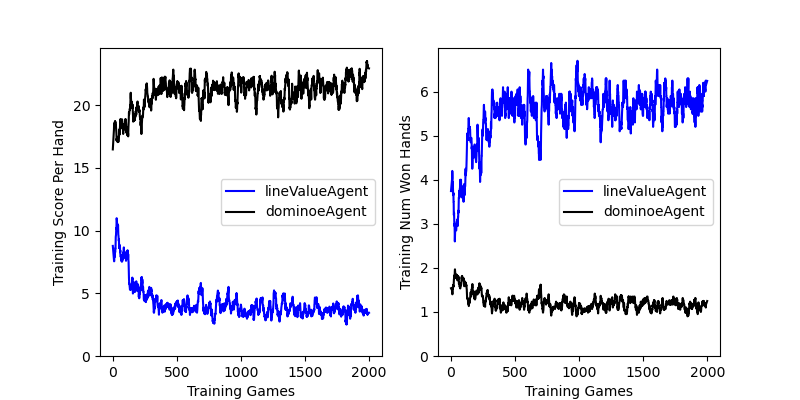
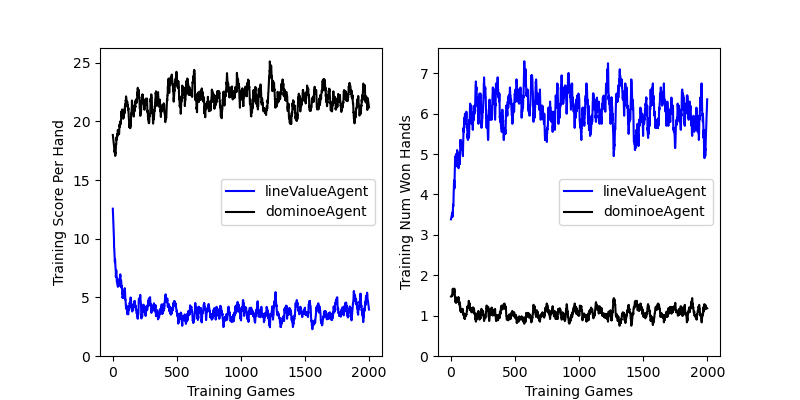
BUG: basicValueAgent uses replay now

diff --git a/experiments/evaluateReplay.py b/experiments/evaluateReplay.py
@@ -1,0 +1,209 @@
+# mainExperiment at checkpoint 1
+import sys
+import os
+
+# add path that contains the dominoes package
+mainPath = os.path.dirname(os.path.abspath(__file__)) + "/.."
+sys.path.append(mainPath)
+
+# standard imports
+from copy import copy
+import argparse
+from pathlib import Path
+from tqdm import tqdm
+import numpy as np
+import matplotlib as mpl
+import matplotlib.pyplot as plt
+import torch.cuda as torchCuda
+
+# dominoes package
+from dominoes import leagueManager as lm
+from dominoes import gameplay as dg
+from dominoes import agents as da
+from dominoes import functions as df
+
+device = 'cuda' if torchCuda.is_available() else 'cpu'
+
+# can edit this for each machine it's being used on
+resPath = Path(mainPath) / 'experiments' / 'savedResults'
+prmsPath = Path(mainPath) / 'experiments' / 'savedParameters'
+figsPath = Path(mainPath) / 'docs' / 'media'
+
+# paths for loading previously trained agents
+networkPath = Path(mainPath) / 'experiments' / 'savedNetworks' 
+
+valueAgents = {
+    'basicValueAgent':da.basicValueAgent,
+    'lineValueAgent':da.lineValueAgent,
+    'lineValueAgentSmall':da.lineValueAgentSmall
+}
+
+opponents = {
+    'dominoeAgent':da.dominoeAgent,
+    'greedyAgent':da.greedyAgent,
+    'stupidAgent':da.stupidAgent,
+    'doubleAgent':da.doubleAgent,
+    'persistentLineAgent':da.persistentLineAgent
+}
+
+# method for returning the name of the saved network parameters (different save for each possible opponent)
+def getFileName():
+    return "evaluateReplay"
+
+def getNetworkPath(replay=True):
+    replayString = '' if replay else 'withReplay_'
+    name = f"trainValueAgent_{args.value_agent}_"+replayString+f"against_{args.opponent}"
+    path = networkPath / (name+'.npy')
+    return path
+
+def handleArguments():
+    parser = argparse.ArgumentParser(description='Run dominoes experiment.')
+    parser.add_argument('-n','--num-players', type=int, default=4, help='the number of agents in the game of dominoes')
+    parser.add_argument('-hd','--highest-dominoe', type=int, default=9, help='the highest dominoe in the board')
+    parser.add_argument('-s','--shuffle-agents', type=bool, default=True, help='whether to shuffle the order of the agents each hand')
+    parser.add_argument('-tg','--num-games',type=int, default=2000, help='the number of training games')
+    parser.add_argument('-tr','--num-rounds',type=int, default=None, help='the number of training rounds')
+    parser.add_argument('-op','--opponent',type=str, default='dominoeAgent', help='which opponent to play the basic value agent against for training and testing')
+    parser.add_argument('-va','--value-agent',type=str, default='basicValueAgent', help='which value agent to use')
+    parser.add_argument('-fe','--fraction-estimate',type=float, default=0.25, help='final fraction of elo estimates to use')
+    parser.add_argument('--justplot',default=False,action='store_true', help='if used, will only plot the saved results (results have to already have been run and saved)')
+    parser.add_argument('--nosave',default=False,action='store_true')
+    
+    args = parser.parse_args()
+    
+    assert args.value_agent in valueAgents.keys(), f"requested value agent ({args.value_agent}) is not in the list of possibilities!"
+    assert args.opponent in opponents.keys(), f"requested opponent ({args.opponent}) is not in the list of possible opponents!"
+     
+    return args
+
+
+def estimateELO(numGames, numRounds):
+    # create a league manager with the requested parameters
+    league = lm.leagueManager(args.highest_dominoe, args.num_players, shuffleAgents=True, device=device)
+    
+    names = []
+    # add valueAgent with replay
+    league.addAgentType(valueAgents[args.value_agent])
+    league.getAgent(0).loadAgentParameters(getNetworkPath(replay=True))
+    league.getAgent(0).setLearning(False)
+    names.append(f"{args.value_agent}_withReplay")
+    
+    # add valueAgent without replay
+    league.addAgentType(valueAgents[args.value_agent])
+    league.getAgent(1).loadAgentParameters(getNetworkPath(replay=False))
+    league.getAgent(1).setLearning(False)
+    names.append(f"{args.value_agent}_noReplay")
+    
+    # add opponents necessary for full table
+    league.addAgentType(opponents[args.opponent], args.num_players-2)
+    names += [args.opponent]*(args.num_players-2)
+    
+    # Run lots of games, update and track ELO scores 
+    trackElo = np.zeros((numGames, league.numAgents))
+    trackScore = np.full((numGames, league.numAgents), np.nan)
+    trackHandWins = np.full((numGames, league.numAgents), np.nan)
+    numRounds = numRounds if numRounds is not None else league.highestDominoe+1
+    for gameIdx in tqdm(range(numGames)):
+        game, leagueIndex = league.createGame()
+        game.playGame(rounds=numRounds)
+        league.updateElo(leagueIndex, game.currentScore) # update ELO
+        trackElo[gameIdx] = copy(league.elo)
+        trackScore[gameIdx, leagueIndex] = game.currentScore/numRounds # track agent score (average per hand)
+        trackHandWins[gameIdx, leagueIndex] = np.sum(game.score==0,axis=0)/numRounds # track how many times each agent won a hand
+
+    # Estimate final ELO
+    num2EstimateWith = int(numGames * args.fraction_estimate)
+    eloEstimate = np.mean(trackElo[-num2EstimateWith:],axis=0)
+    averageScore = np.nanmean(trackScore,axis=0)
+    averageHandWins = np.nanmean(trackHandWins,axis=0)
+
+    # Create results array
+    results = {
+        'elo':eloEstimate,
+        'averageScore':averageScore,
+        'averageHandWins':averageHandWins,
+        'trackedElo':trackElo,
+        'names':names
+    }
+ 
+    return results
+
+
+# And a function for plotting results
+def plotResults(results, args):
+    elo = results['elo']
+    averageScore = results['averageScore']
+    averageHandWins = results['averageHandWins']
+    trackedElo = results['trackedElo']
+    
+    names = results['names']
+    numAgents = len(names)
+    
+    # Show plot of tracked ELO trajectories to make sure it reached asymptotic ELO ratings
+    f1 = plt.figure(1)
+    for name, telo in zip(names, trackedElo.T):
+        plt.plot(range(args.num_games), telo, label=name)
+    plt.ylim(0)
+    plt.legend(loc='best')
+    plt.show()
+
+    # Create discrete colormap
+    colors = ['b','k',*(['0.3']*(numAgents-2))]
+    f2,ax = plt.subplots(1,3,figsize=(14,4))
+
+    ax[0].bar(x=range(numAgents), height=elo, color=colors, tick_label=names)
+    ax[0].tick_params(labelrotation=25)
+    ax[0].set_ylim(0)
+    ax[0].set_ylabel('ELO')
+    
+    ax[1].bar(x=range(numAgents), height=averageScore, color=colors, tick_label=names)
+    ax[1].tick_params(labelrotation=25)
+    ax[1].set_ylim(0)
+    ax[1].set_ylabel('avg score/hand')
+    
+    ax[2].bar(x=range(numAgents), height=averageHandWins, color=colors, tick_label=names)
+    ax[2].tick_params(labelrotation=25)
+    ax[2].set_ylim(0)
+    ax[2].set_ylabel('avg fraction of hand wins')
+    
+    if not(args.nosave):
+        plt.savefig(str(figsPath/getFileName()))
+    
+    plt.show()
+    
+
+if __name__=='__main__':
+    args = handleArguments()
+    
+    if not(args.justplot):
+        # estimate ELO with the requested parameters and agents
+        results = estimateELO(args.num_games, args.num_rounds)
+        
+        # save results if requested
+        if not(args.nosave):
+            # Save agent parameters
+            np.save(prmsPath / getFileName(), vars(args))
+            np.save(resPath / getFileName(), results)
+        
+    else:
+        prms = np.load(prmsPath / (getFileName()+'.npy'), allow_pickle=True).item()
+        assert prms.keys() <= vars(args).keys(), f"Saved parameters contain keys not found in ArgumentParser:  {set(prms.keys()).difference(vars(args).keys())}"
+        for (pk,pi), (ak,ai) in zip(prms.items(), vars(args).items()):
+            if pk=='justplot': continue
+            if pk=='nosave': continue
+            if prms[pk] != vars(args)[ak]:
+                print(f"Requested argument {ak}={ai} differs from saved, which is: {pk}={pi}. Using saved...")
+                setattr(args,pk,pi)
+        
+        results = np.load(resPath / (getFileName()+'.npy'), allow_pickle=True).item()
+        
+    plotResults(results, args)
+        
+    print(f"ELO: {results['elo']}")
+    print(f"AvgScore: {results['averageScore']}")
+    print(f"AvgHandWins: {results['averageHandWins']}")
+    
+    
+    
+    
+

diff --git a/dominoes/agents/tdAgents.py b/dominoes/agents/tdAgents.py
@@ -23,8 +23,10 @@ class valueAgent(dominoeAgent):
         self.lam = 0.5
         self.alpha = 3e-5
         self.replay = True
-        self.probSaveForReplay = 0.2
+        self.probSaveForReplay = 0.1
         self.sizeReplayBuffer = 1000
+        self.replayAlpha = copy(self.alpha)
+        self.replayRepetitions = 10
         self.finalScoreOutputDimension = 1
         
         # create binary arrays for presenting gamestate information to the RL networks
@@ -42,6 +44,14 @@ class valueAgent(dominoeAgent):
     
     def initHand(self):
         self.zeroEligibility()
+        if self.learning and self.replay and self.replayBuffer[0].size(0)>0:
+            self.replayBufferIndex = [] # reset so any replays to add from this hand get appended here
+            for _ in range(self.replayRepetitions):
+                self.optimizer.zero_grad()
+                finalScoreOutput = self.finalScoreNetwork(self.replayBuffer, withBatch=True)
+                finalScoreError = self.loss(finalScoreOutput, self.replayTarget)
+                finalScoreError.backward()
+                self.optimizer.step()
         
     def prepareNetwork(self):
         raise ValueError("It looks like you instantiated an object of the valueAgent class directly. This class is only used to provide a scaffold for complete valueAgents, see possible agents in this script!")
@@ -225,7 +235,7 @@ class basicValueAgent(valueAgent):
         self.replayBuffer = torch.zeros((0, self.finalScoreNetwork.inputDimension)).to(self.device)
         self.replayTarget = torch.zeros((0,1)).to(self.device)
         self.loss = torch.nn.L1Loss()
-        self.optimizer = torch.optim.SGD(self.finalScoreNetwork.parameters(), lr=self.alpha)
+        self.optimizer = torch.optim.SGD(self.finalScoreNetwork.parameters(), lr=self.replayAlpha)
         
     def checkTurnUpdate(self, currentPlayer, postState=False):
         relevantTurn = True # update every turn -- #(currentPlayer is not None) and (currentPlayer == self.agentIndex)
@@ -326,18 +336,19 @@ class lineValueAgent(valueAgent):
         self.replayBuffer = [torch.zeros((0, *replayDims0)).to(self.device), torch.zeros((0, *replayDims1)).to(self.device)]
         self.replayTarget = torch.zeros((0,1)).to(self.device)
         self.loss = torch.nn.L1Loss()
-        self.optimizer = torch.optim.SGD(self.finalScoreNetwork.parameters(), lr=self.alpha)
+        self.optimizer = torch.optim.SGD(self.finalScoreNetwork.parameters(), lr=self.replayAlpha)
         
     def initHand(self):
         super().initHand()
         self.needsLineUpdate = True
         if self.learning and self.replay and self.replayBuffer[0].size(0)>0:
             self.replayBufferIndex = [] # reset so any replays to add from this hand get appended here
-            self.optimizer.zero_grad()
-            finalScoreOutput = self.finalScoreNetwork(self.replayBuffer, withBatch=True)
-            finalScoreError = self.loss(finalScoreOutput, self.replayTarget)
-            finalScoreError.backward()
-            self.optimizer.step()
+            for _ in range(self.replayRepetitions):
+                self.optimizer.zero_grad()
+                finalScoreOutput = self.finalScoreNetwork(self.replayBuffer, withBatch=True)
+                finalScoreError = self.loss(finalScoreOutput, self.replayTarget)
+                finalScoreError.backward()
+                self.optimizer.step()
         
     def linePlayedOn(self):
         # if my line was played on, then recompute sequences if it's my turn
